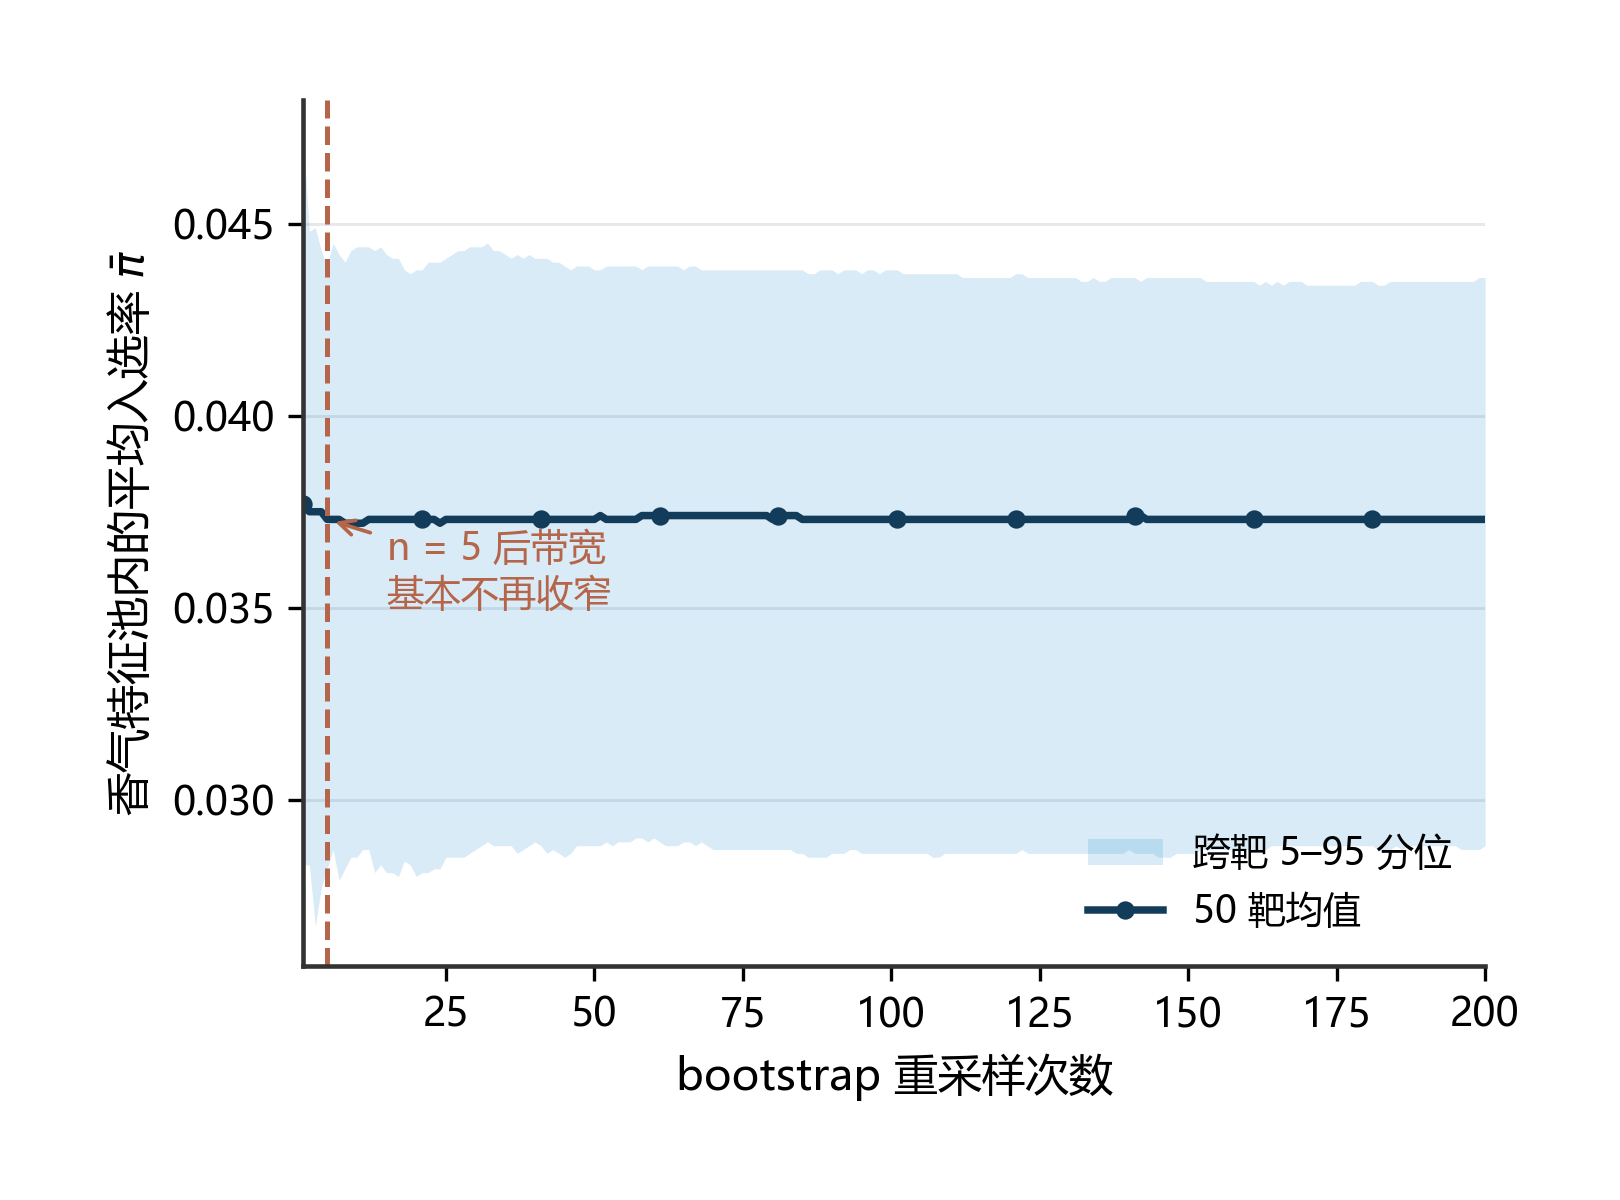
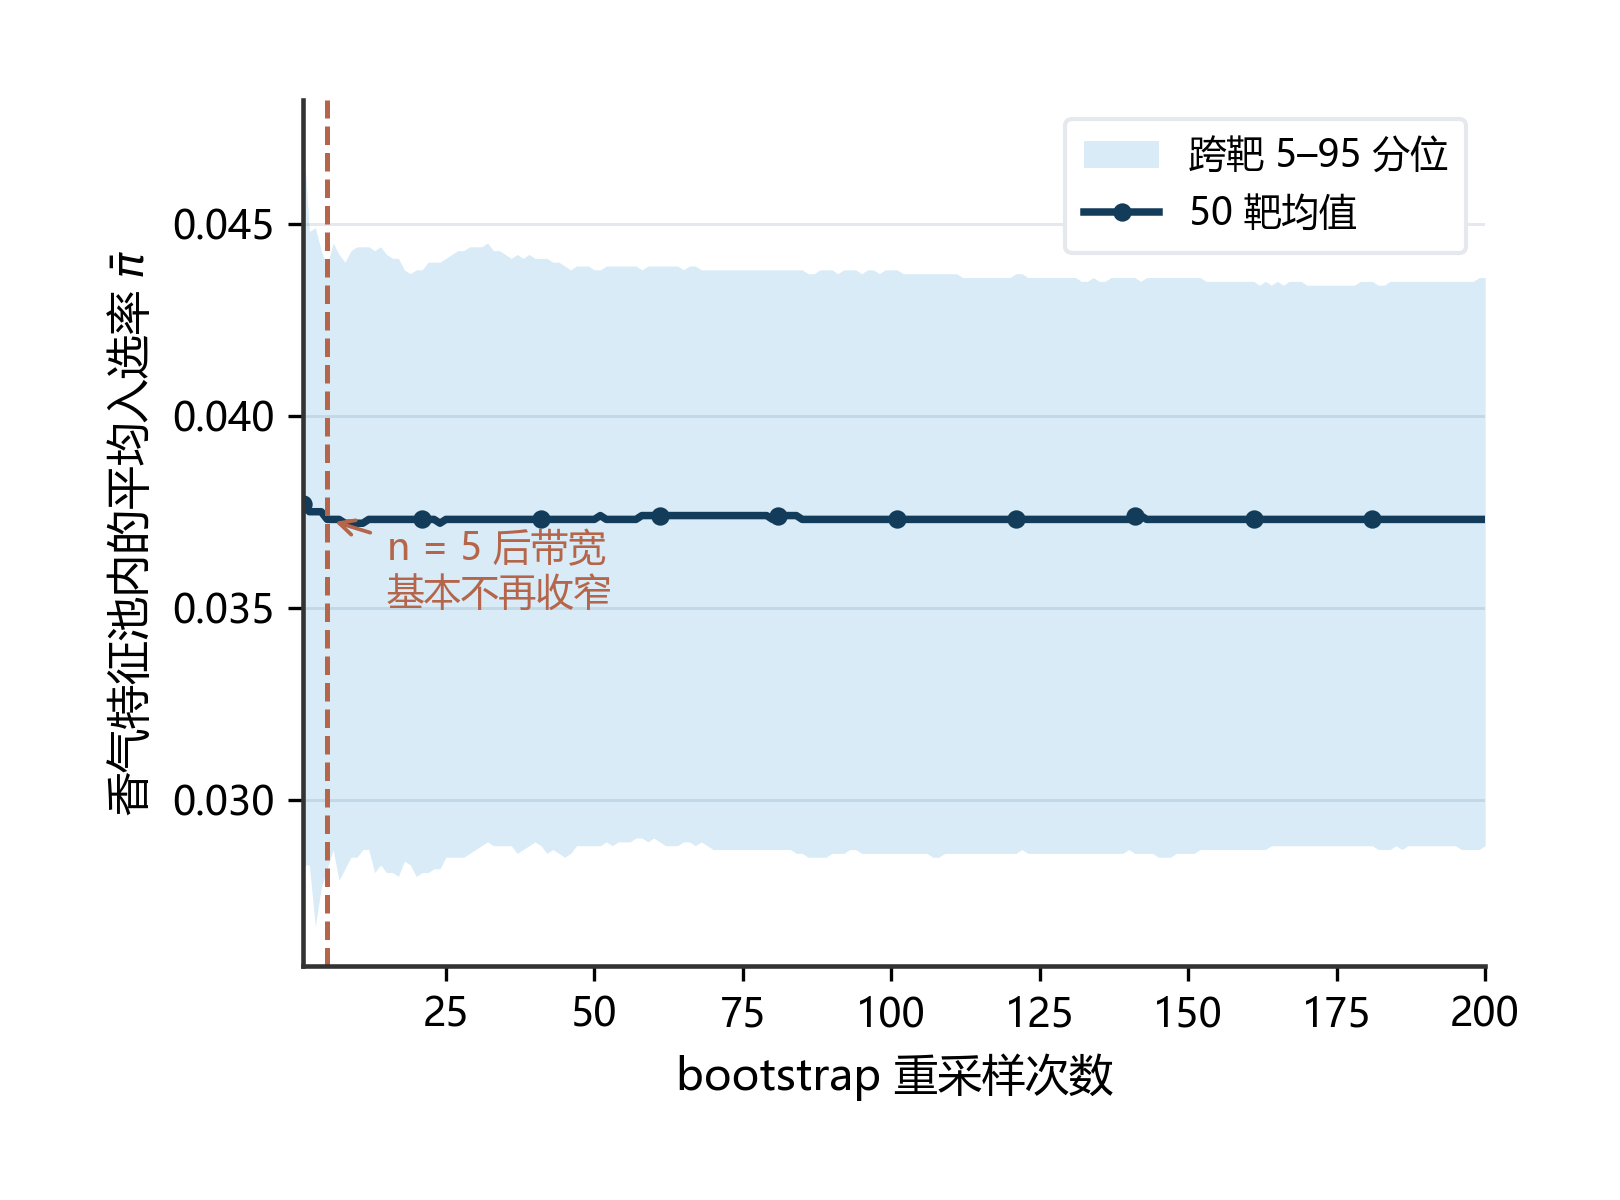
q2: 收敛图的图例移出置信带，消除"跨靶 5–95 分位"压带
p5–p95 带铺满整个绘图区宽度，图例放在 lower right 正好压在带的下边缘上：
带的色块是浅蓝，画在浅蓝底上等于看不见；"跨靶 5–95 分位"这行字还被带的
下边界从中间切开，图例和带糊在一起。

改为 upper right + 白底浅灰细边：带顶部到坐标框之间还有约 40 pt 的空白，
图例整个落在这条白带里，不遮挡任何数据；白底也让浅蓝色块重新可见。
边框用 COOL_GRID，与全图网格同一灰阶。

重出 fig_q2_convergence 的 PNG 与 SVG（5.4x4.0 in / 300 dpi、坐标轴矩形、
带、均值曲线与拐点标注均未动；同一渲染环境逐像素比对，图例区之外差异
0.07/255）。

diff --git a/competitions/2026-mathorcup/code/figures.py b/competitions/2026-mathorcup/code/figures.py
@@ -837,7 +837,13 @@ def fig_q2_convergence():
     ax.set_ylabel('香气特征池内的平均入选率 $\\bar{\\pi}$', fontsize=10.5)
     ax.tick_params(labelsize=9.5)
     ax.set_xlim(1, len(c))
-    ax.legend(loc='lower right', fontsize=9)
+    # p5–p95 带铺满整个绘图区宽度，"跨靶 5–95 分位"这一行原本落在带的下边缘上：
+    # 浅蓝色的带色块画在浅蓝底上等于看不见，文字还被带的下边界从中间切开。
+    # 两条一起改——图例挪到带顶部以上的白边里（那里没有任何数据），
+    # 再加白底和一圈浅灰细线，即使以后带宽变化也不会再糊在一起。
+    ax.legend(loc='upper right', fontsize=9, frameon=True, facecolor='white',
+              edgecolor=COOL_GRID, framealpha=1.0, borderpad=0.5,
+              labelspacing=0.5)
     _style_ax(ax)
     return finalize_figure(fig, OUT / 'fig_q2_convergence')
 
